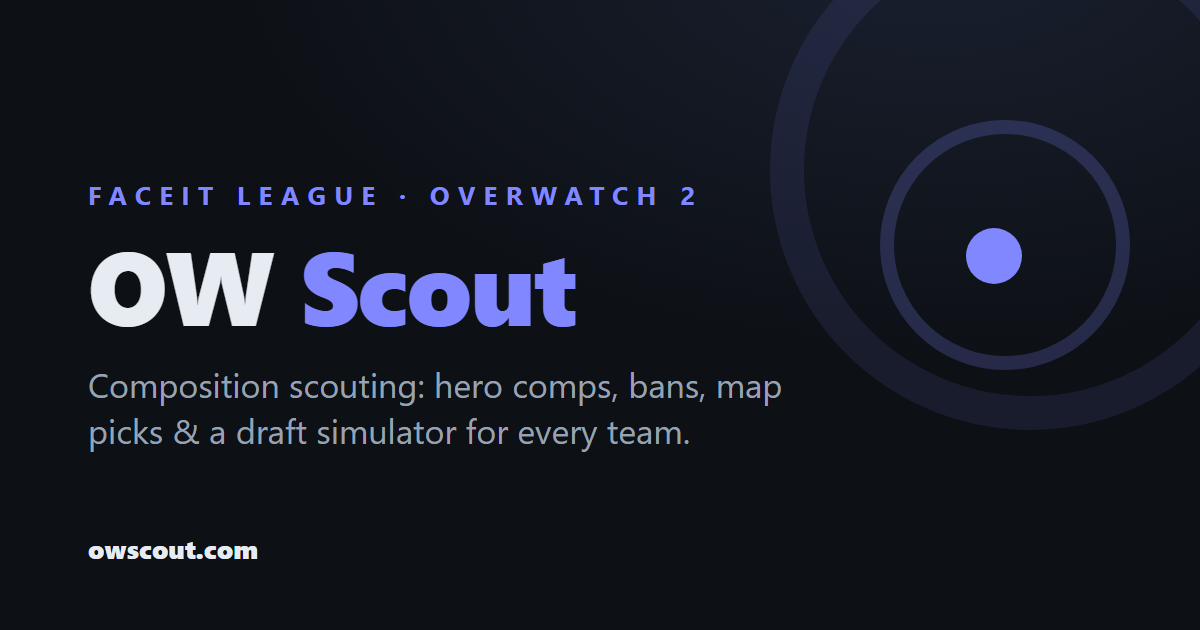
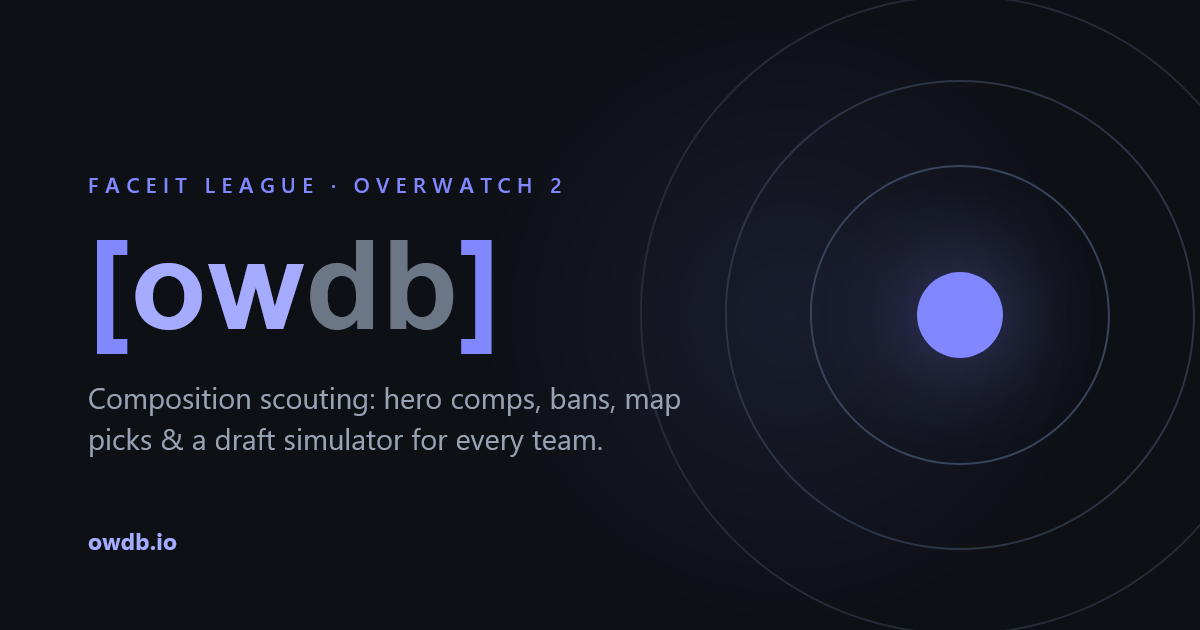
Eliminate spent sub-maps, match both player names, rebrand the OG card
Sub-maps: a Control match plays each sub-map once, so the picker now dims
and strikes through any captured in an earlier round - the operator
eliminates as they go instead of re-reading the list each round. The
round in progress is deliberately not counted as spent (it's the active
pick), and spent entries stay clickable rather than disabled so a
mis-picked earlier round is still correctable.

Name matching: the browser matched HUD reads against `game_name` alone.
Since the feed populates that for 100% of players, the FACEIT nick was
never consulted - and the two differ for 1353 of 1739 roster rows (78%),
e.g. nick "PRDZII" vs HUD "aes". Both names are now candidates, taking
the best score, which is what the native path (owdb/capture.py) always
did; the browser had drifted. Also fold accents before comparing:
tessedit_char_whitelist is plain ASCII, so OCR can only ever emit "Hev"
for a HUD showing "Hev" with a macron, and an otherwise-perfect read was
scoring as a near-miss over a diacritic it was never allowed to produce.

No threshold was loosened - both changes give the matcher more correct
information rather than lowering the bar for a hit.

OG card: docs/og.png still read "OW Scout" / "owscout.com" (the meta
tags were already rebranded, only the image lagged). Regenerated from
the live theme.css dark tokens and the real Space Grotesk / Inter files
so it matches the site header. Source kept as tools/og_image.html with
[…]

diff --git a/docs/capture/index.html b/docs/capture/index.html
@@ -948,7 +948,13 @@ function _matchTotal(a,ai,aj,b,bi,bj){ let besti=ai,bestj=bi,best=0,j2={};
   let tot=best;
   if(best){ tot+=_matchTotal(a,ai,besti,b,bi,bestj); tot+=_matchTotal(a,besti+best,aj,b,bestj+best,bj); }
   return tot; }
-function simScore(a,b){ a=(a||'').toLowerCase().trim(); b=(b||'').toLowerCase().trim();
+// Fold accents before comparing: the HUD renders the real Battle.net name
+// (e.g. "Hēv"), but tessedit_char_whitelist is plain ASCII, so OCR can only
+// ever return "Hev" - without this, an otherwise-perfect read scores as a
+// near-miss purely because of a diacritic it was never allowed to emit.
+function _normName(s){ return String(s==null?'':s).normalize('NFD')
+  .replace(/[̀-ͯ]/g,'').toLowerCase().trim(); }
+function simScore(a,b){ a=_normName(a); b=_normName(b);
   const L=a.length+b.length; if(!L) return 0; return 200*_matchTotal(a,0,a.length,b,0,b.length)/L; }  // 0..100
 function affinity(names,roster){ let s=0; for(const n of names){ if(!n) continue;
   let best=0; for(const r of roster) best=Math.max(best,simScore(n,r)); s+=best; } return s; }
@@ -1039,9 +1045,20 @@ async function ocrNames(){ const frame=grabFrame(); const w=await ocrWorker(); c
       out[side].push((data.text||'').replace(/\s+/g,' ').trim());
       setDetectMsg('reading HUD names… '+(++done)+'/10'); ocrProgress(done/10); } }
   return out; }
+// Each player carries BOTH names: `game_name` is the Battle.net name the OW HUD
+// actually renders, `nick` is the FACEIT handle. They differ for ~78% of league
+// players (e.g. nick "Dip_impact" vs HUD "Dip", nick "PRDZII" vs HUD "aes"), so
+// matching only one throws away a free second chance at a hit. This mirrors what
+// the native capture path already does (owdb/capture.py builds its candidate
+// list from `(p.game_name, p.nickname)`); the browser had drifted to game_name
+// alone, which - since the feed populates it for every player - meant the FACEIT
+// nick was never consulted at all.
+function rosterNames(p){ return (p&&p.names&&p.names.length)?p.names:[p&&p.name].filter(Boolean); }
 function teamRoster(teamId){ const c=selectedCode(); if(!c||!teamId) return [];
   const t=((DATA.rosters||{})[c.match_id]||{})[teamId]; if(!t||!t.players) return [];
-  return t.players.map(p=>({ id:p.id||null, name:(p.game_name||p.nick||'').trim() })).filter(x=>x.name); }
+  return t.players.map(p=>{ const game=(p.game_name||'').trim(), nick=(p.nick||'').trim();
+    return { id:p.id||null, name:game||nick, names:[...new Set([game,nick].filter(Boolean))] }; })
+    .filter(x=>x.names.length); }
 // FACEIT player id -> display name, from either team's roster for this match.
 function playerName(pid){ if(!pid) return ''; const c=selectedCode(); if(!c) return '';
   const rs=((DATA.rosters||{})[c.match_id]||{}); if(!c.t1&&!c.t2) return '';
@@ -1052,7 +1069,10 @@ function playerName(pid){ if(!pid) return ''; const c=selectedCode(); if(!c) ret
 // threshold, no player used twice. Returns [id|null x5] aligned to slots.
 function attribute(names,roster){ const out=[null,null,null,null,null], cand=[];
   for(let i=0;i<names.length;i++){ if(!names[i]) continue;
-    for(const p of roster){ if(!p.id) continue; cand.push({i, id:p.id, s:simScore(names[i],p.name)}); } }
+    for(const p of roster){ if(!p.id) continue;
+      // Best of the player's names (Battle.net + FACEIT) — see rosterNames.
+      let s=0; for(const r of rosterNames(p)) s=Math.max(s,simScore(names[i],r));
+      cand.push({i, id:p.id, s}); } }
   cand.sort((x,y)=>y.s-x.s); const usedSlot=new Set(), usedId=new Set();
   for(const c of cand){ if(c.s<STRONG_NAME_SCORE) break;
     if(usedSlot.has(c.i)||usedId.has(c.id)) continue;
@@ -1082,7 +1102,10 @@ async function detectSides(){ const c=selectedCode(), s=session;
   const names=await ocrNames();
   if(selectedCode()!==c || session!==s)
     return {left:null, aIds:[], bIds:[], lRoster:[], rRoster:[], stale:true};
-  const t1n=teamRoster(c.t1).map(x=>x.name), t2n=teamRoster(c.t2).map(x=>x.name);
+  // flatMap, not map: feed confidentLeft every known alias per player (Battle.net
+  // AND FACEIT), since affinity() takes the best match per OCR read — more
+  // candidates can only sharpen the left/right verdict, never weaken it.
+  const t1n=teamRoster(c.t1).flatMap(rosterNames), t2n=teamRoster(c.t2).flatMap(rosterNames);
   const left=confidentLeft(names.a,names.b,t1n,t2n);
   if(left){ const leftId=left==='t1'?c.t1:c.t2;
     document.querySelectorAll('input[name=side]').forEach(r=>{ r.checked=(r.value===leftId); });
@@ -1503,6 +1526,18 @@ function nextAttackerState(phased, prevAttacker, newRound){
   return {attacker:prevAttacker, confirmed:false};   // prevAttacker is only a UI hint now
 }
 function attackerGateOk(s){ return !(s&&s.phased&&s.round>=3&&!s.attackerConfirmed); }
+// Control maps play each sub-map ONCE — a round never revisits one — so a
+// sub-map already captured in an EARLIER round is spent. Returns that spent
+// set, which the picker dims so the operator eliminates as they go instead of
+// re-reading the list each round. Scoped to other rounds on purpose: the
+// round in progress is the active pick, not a used-up one. The picker keeps
+// these clickable (dimmed, not disabled) — a mis-picked earlier round should
+// stay correctable rather than locking the real sub-map out of reach.
+function usedSubmaps(snaps, currentRound){
+  const used=new Set();
+  for(const s of (snaps||[])){ if(s&&s.sub&&s.round!==currentRound) used.add(s.sub); }
+  return used;
+}
 function nextRound(){ if(!session) return;
   session.history.push({type:'round', round:session.round, sub:session.sub,
     attacker:session.attacker, attackerConfirmed:session.attackerConfirmed});
@@ -1647,7 +1682,8 @@ function renderPipControls(){ setPopBtn(); if(!pipWin||pipWin.closed) return; co
   sub.innerHTML='';
   if(session&&session.submaps.length){ sub.className='prow'+(session.sub?'':' warn');
     const l=d.createElement('span'); l.className='lbl'; l.textContent=session.sub?'Sub-map':'Sub-map — pick one ▸'; sub.appendChild(l);
-    session.submaps.forEach(s=>mk(sub,s,()=>pickSub(s), session.sub===s?'on':'')); }
+    const spent=usedSubmaps(session.snaps, session.round);
+    session.submaps.forEach(s=>mk(sub,s,()=>pickSub(s), session.sub===s?'on':(spent.has(s)?'used':''))); }
   else sub.className='prow';
   // attack row (escort/hybrid) — click the team that's attacking this round;
   // warn colour from round 3 while unconfirmed (time-bank, not parity — see
@@ -1687,6 +1723,9 @@ function pipPanelCss(c){
     `button.go{background:${c.accent};color:${c.onAccent};font-weight:700;border:0;flex:1 1 100%}`+
     `button.fin{border-color:${c.good};color:${c.good}}button.fin.go{background:${c.good};color:${c.onAccent};font-weight:700;border:0;margin-top:3px;padding:7px 9px}`+
     `button.on{background:${c.accent};color:${c.onAccent};border:0;font-weight:600}`+
+    // spent sub-map (already captured in an earlier round) — dimmed to eliminate
+    // it by sight, still clickable so a mis-pick stays fixable.
+    `button.used{opacity:.4;text-decoration:line-through}`+
     `.pt{padding:2px 8px}.pt h3{margin:0 0 1px;font-size:9.5px;color:${c.muted};text-transform:uppercase}`+
     `.prow label{font-size:11px;color:${c.muted};display:flex;align-items:center;gap:5px}`+
     `.prow input{margin:0}`+

diff --git a/tools/og_image.html b/tools/og_image.html
@@ -1,0 +1,61 @@
+<!doctype html>
+<!-- Source for docs/og.png (the link-embed card, 1200x630).
+     Regenerate after any branding change:
+       node tools/shoot_og.js
+     which serves the repo root and screenshots this file at 1200x630.
+     Colours are the theme.css dark-palette tokens and the fonts are the real
+     Space Grotesk / Inter files, so the card matches the live site header. -->
+<meta charset="utf-8">
+<title>owdb — og card</title>
+<style>
+  @font-face{font-family:'Space Grotesk';font-weight:700;src:url('../docs/fonts/space-grotesk-700.woff2') format('woff2')}
+  @font-face{font-family:'Inter';font-weight:400;src:url('../docs/fonts/inter-400.woff2') format('woff2')}
+  @font-face{font-family:'Inter';font-weight:600;src:url('../docs/fonts/inter-600.woff2') format('woff2')}
+  @font-face{font-family:'Inter';font-weight:700;src:url('../docs/fonts/inter-700.woff2') format('woff2')}
+
+  /* theme.css dark palette */
+  :root{--bg:#0d1015;--fg:#e7ebf2;--muted:#98a2b2;--faint:#6b7686;
+        --line:#252c37;--accent:#8087ff;--accent-bright:#a5abff}
+
+  *{margin:0;padding:0;box-sizing:border-box}
+  body{width:1200px;height:630px;background:var(--bg);overflow:hidden;position:relative;
+       font-family:'Inter',system-ui,sans-serif;-webkit-font-smoothing:antialiased}
+
+  /* concentric-ring motif, carried over from the previous card for continuity */
+  .rings{position:absolute;right:-90px;top:50%;transform:translateY(-50%);
+         width:660px;height:660px}
+  .rings i{position:absolute;border-radius:50%;border:2px solid var(--line);
+           top:50%;left:50%;transform:translate(-50%,-50%);display:block}
+  .r1{width:640px;height:640px}
+  .r2{width:470px;height:470px;border-color:#2c3446 !important}
+  .r3{width:300px;height:300px;border-color:#39435c !important}
+  .dot{width:86px;height:86px;background:var(--accent);border:0 !important;
+       box-shadow:0 0 90px 18px rgba(128,135,255,.30)}
+  .glow{position:absolute;right:60px;top:50%;transform:translateY(-50%);
+        width:700px;height:700px;border-radius:50%;
+        background:radial-gradient(circle,rgba(128,135,255,.10) 0%,transparent 62%)}
+
+  .wrap{position:absolute;left:88px;top:50%;transform:translateY(-50%);max-width:700px}
+  .eyebrow{font-size:21px;font-weight:600;letter-spacing:.30em;color:var(--accent);
+           text-transform:uppercase;margin-bottom:26px}
+  .wordmark{font-family:'Space Grotesk',sans-serif;font-weight:700;font-size:124px;
+            line-height:1;letter-spacing:.01em;margin-bottom:30px;white-space:nowrap}
+  .wordmark .br{color:var(--accent)}
+  .wordmark .ow{color:var(--accent-bright)}
+  .wordmark .db{color:var(--faint)}
+  .tag{font-size:29px;line-height:1.42;color:var(--muted);max-width:640px}
+  .url{position:absolute;left:88px;bottom:74px;font-size:23px;font-weight:700;
+       color:var(--accent-bright);letter-spacing:.01em}
+</style>
+
+<div class="glow"></div>
+<div class="rings">
+  <i class="r1"></i><i class="r2"></i><i class="r3"></i><i class="dot"></i>
+</div>
+
+<div class="wrap">
+  <div class="eyebrow">FACEIT League &middot; Overwatch 2</div>
+  <div class="wordmark"><span class="br">[</span><span class="ow">ow</span><span class="db">db</span><span class="br">]</span></div>
+  <div class="tag">Composition scouting: hero comps, bans, map picks &amp; a draft simulator for every team.</div>
+</div>
+<div class="url">owdb.io</div>

diff --git a/tools/shoot_og.js b/tools/shoot_og.js
@@ -1,0 +1,36 @@
+// Renders tools/og_image.html to docs/og.png (1200x630, the link-embed card).
+//   node tools/shoot_og.js
+// Serves the repo root over http so the real ../docs/fonts/*.woff2 load (a
+// file:// run silently falls back to system fonts and the wordmark comes out
+// wrong). Needs Playwright's Firefox: npx playwright install firefox
+const { firefox } = require('playwright');
+const http = require('http');
+const fs = require('fs');
+const path = require('path');
+
+const ROOT = path.resolve(__dirname, '..');
+const OUT = path.join(ROOT, 'docs', 'og.png');
+const TYPES = { '.html': 'text/html; charset=utf-8', '.woff2': 'font/woff2',
+  '.css': 'text/css', '.js': 'text/javascript', '.png': 'image/png' };
+
+const server = http.createServer((req, res) => {
+  const file = path.join(ROOT, decodeURIComponent(req.url.split('?')[0]));
+  if (!file.startsWith(ROOT) || !fs.existsSync(file) || fs.statSync(file).isDirectory()) {
+    res.writeHead(404); res.end('not found'); return;
+  }
+  res.writeHead(200, { 'Content-Type': TYPES[path.extname(file)] || 'application/octet-stream' });
+  fs.createReadStream(file).pipe(res);
+});
+
+(async () => {
+  await new Promise(r => server.listen(0, r));
+  const port = server.address().port;
+  const browser = await firefox.launch({ headless: true });
+  const page = await browser.newPage({ viewport: { width: 1200, height: 630 } });
+  await page.goto(`http://localhost:${port}/tools/og_image.html`, { waitUntil: 'load' });
+  await page.evaluate(() => document.fonts.ready);   // don't shoot mid-swap
+  await page.screenshot({ path: OUT, clip: { x: 0, y: 0, width: 1200, height: 630 } });
+  await browser.close();
+  server.close();
+  console.log('wrote', OUT, fs.statSync(OUT).size, 'bytes');
+})();

diff --git a/tests/test_capture_submaps.py b/tests/test_capture_submaps.py
@@ -1,0 +1,75 @@
+"""Browser capture app: spent sub-map elimination on control maps.
+
+An Overwatch Control match plays each sub-map at most once - a round never
+revisits one - so a sub-map already captured in an earlier round is spent.
+usedSubmaps() returns that spent set so the picker can dim them and the
+operator eliminates as they go rather than re-reading the full list each
+round.
+
+Scoping matters in both directions and is what these tests pin: the round
+IN PROGRESS must not mark its own sub-map spent (it's the active pick, not
+a used-up one), while every earlier round's must be.
+"""
+from __future__ import annotations
+
+import json
+import shutil
+import subprocess
+from pathlib import Path
+
+import pytest
+
+APP = Path(__file__).resolve().parents[1] / "docs" / "capture" / "index.html"
+
+
+def _pure_js() -> str:
+    html = APP.read_text(encoding="utf-8")
+    start = html.index("function usedSubmaps(snaps, currentRound){")
+    end = html.index("\n}", start) + len("\n}")
+    assert end > start, "extraction anchors moved in index.html"
+    return html[start:end]
+
+
+def _run(body: str) -> object:
+    node = shutil.which("node")
+    if not node:
+        pytest.skip("node not available to run the capture app's helpers")
+    # Set is not JSON-serialisable; hand back a sorted array for comparison.
+    src = _pure_js() + "\nconsole.log(JSON.stringify([...(()=>{" + body + "})()].sort()));"
+    proc = subprocess.run([node, "-e", src], capture_output=True, text=True)
+    assert proc.returncode == 0, f"node failed:\n{proc.stderr}"
+    return json.loads(proc.stdout)
+
+
+def test_no_snapshots_yet_means_nothing_is_spent() -> None:
+    assert _run("return usedSubmaps([], 1);") == []
+
+
+def test_an_earlier_rounds_submap_is_spent() -> None:
+    snaps = "[{round:1,sub:'Gardens'},{round:1,sub:'Gardens'}]"
+    assert _run(f"return usedSubmaps({snaps}, 2);") == ["Gardens"]
+
+
+def test_the_round_in_progress_does_not_spend_its_own_submap() -> None:
+    # Mid-round-1 with snapshots already taken: Gardens is the ACTIVE pick and
+    # must stay undimmed, or the operator sees the map they're on struck out.
+    snaps = "[{round:1,sub:'Gardens'}]"
+    assert _run(f"return usedSubmaps({snaps}, 1);") == []
+
+
+def test_each_completed_round_adds_its_own_submap() -> None:
+    snaps = ("[{round:1,sub:'Gardens'},{round:1,sub:'Gardens'},"
+             "{round:2,sub:'City Center'},{round:3,sub:'University'}]")
+    assert _run(f"return usedSubmaps({snaps}, 3);") == ["City Center", "Gardens"]
+
+
+def test_snapshots_with_no_submap_are_ignored() -> None:
+    # Non-control maps carry sub:null on every snap; nothing should be spent.
+    snaps = "[{round:1,sub:null},{round:2,sub:undefined},{round:2,sub:''}]"
+    assert _run(f"return usedSubmaps({snaps}, 3);") == []
+
+
+def test_a_missing_snaps_list_is_tolerated() -> None:
+    # renderPipControls can run against a session before snaps is populated.
+    assert _run("return usedSubmaps(undefined, 1);") == []
+    assert _run("return usedSubmaps(null, 1);") == []

diff --git a/tests/test_capture_attribution.py b/tests/test_capture_attribution.py
@@ -54,3 +54,45 @@ def test_all_five_strong_matches_need_no_elimination() -> None:
     names = "['Alison','Sivaartt','Kroxz','Zorrow','Benislover']"
     got = _run(f"return attribute({names},{_ROSTER});")
     assert got == ["p1", "p2", "p3", "p4", "p5"]
+
+
+# --- both names per player (Battle.net + FACEIT) -------------------------------
+# The HUD renders the Battle.net name, which differs from the FACEIT nick for
+# ~78% of league players. The native path always matched against both; the
+# browser had drifted to game_name only, so the nick was never consulted.
+
+# Shaped as teamRoster() now emits: `names` holds every alias for that player.
+_DUAL = ("[{id:'p1',names:['Dip','Dip_impact']},"
+         "{id:'p2',names:['aes','PRDZII']},"
+         "{id:'p3',names:['gogo','GOGOOGOOO']}]")
+
+
+def test_a_hud_read_matches_the_battletag() -> None:
+    got = _run(f"return attribute(['Dip','aes','gogo'],{_DUAL});")
+    assert got == ["p1", "p2", "p3", None, None]
+
+
+def test_a_hud_read_matches_the_faceit_nick_too() -> None:
+    # If the HUD happens to show the FACEIT handle (or the operator is reading a
+    # scoreboard rather than the play HUD), the nick must still resolve.
+    got = _run(f"return attribute(['Dip_impact','PRDZII','GOGOOGOOO'],{_DUAL});")
+    assert got == ["p1", "p2", "p3", None, None]
+
+
+def test_matching_only_the_primary_name_would_have_missed_these() -> None:
+    # Guard against a regression back to single-name matching: "PRDZII" scores
+    # essentially nothing against the battletag "aes", so a primary-name-only
+    # implementation cannot resolve it.
+    only_primary = "[{id:'p2',name:'aes'}]"
+    assert _run(f"return attribute(['PRDZII'],{only_primary});") == [None] * 5
+    assert _run(f"return attribute(['PRDZII'],{_DUAL});")[0] == "p2"
+
+
+def test_accents_are_folded_before_comparing() -> None:
+    # tessedit_char_whitelist is plain ASCII, so OCR can only ever emit "Hev"
+    # for a HUD showing "Hev" with a macron - the roster name must still match.
+    roster = "[{id:'p1',names:['H\\u0113v']}]"
+    assert _run(f"return attribute(['Hev'],{roster});")[0] == "p1"
+    # and the same in reverse (accented read, plain roster entry)
+    roster2 = "[{id:'p1',names:['Hev']}]"
+    assert _run(f"return attribute(['H\\u0113v'],{roster2});")[0] == "p1"
